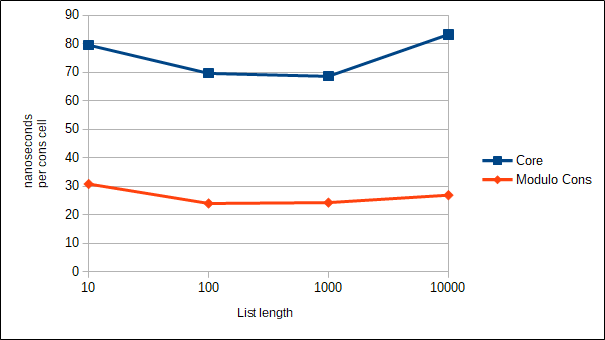
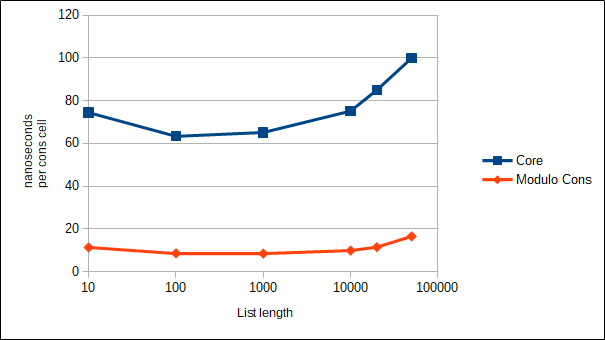
Redo benchmarks one at a time
Makes the large benchmarks more feasible to do!
Seems to make everything look faster. Less overhead?
Have to redo everything the same way.

diff --git a/dist/modified.html b/dist/modified.html
@@ -14813,6 +14813,7 @@ var $author$project$Main$coreMap = F2(
 var $author$project$Main$listOfSize = function (n) {
 	return A2($elm$core$List$range, 1, n);
 };
+// https://en.wikipedia.org/wiki/Tail_call#Tail_recursion_modulo_cons
 var $author$project$Main$moduloConsMap = F2(function(f, xs) {
   var tmp = _List_Cons(undefined, _List_Nil);
   var end = tmp;
@@ -14823,6 +14824,7 @@ var $author$project$Main$moduloConsMap = F2(function(f, xs) {
   }
   return tmp.b;
 });
+
 var $author$project$Main$compareBenchmark = function (n) {
 	var list = $author$project$Main$listOfSize(n);
 	return A5(
@@ -14843,15 +14845,14 @@ var $author$project$Main$compareBenchmark = function (n) {
 				list);
 		});
 };
-var $author$project$Main$compareScale = A2(
-	$elm$core$List$map,
-	$author$project$Main$compareBenchmark,
-	A2(
-		$elm$core$List$map,
-		$elm$core$Basics$pow(10),
-		A2($elm$core$List$range, 1, 4)));
 var $elm_explorations$benchmark$Benchmark$describe = $elm_explorations$benchmark$Benchmark$Benchmark$Group;
-var $author$project$Main$suite = A2($elm_explorations$benchmark$Benchmark$describe, 'map modulo-cons vs core', $author$project$Main$compareScale);
+var $author$project$Main$suite = A2(
+	$elm_explorations$benchmark$Benchmark$describe,
+	'map modulo-cons vs core',
+	_List_fromArray(
+		[
+			$author$project$Main$compareBenchmark(10)
+		]));
 var $author$project$Main$main = $elm_explorations$benchmark$Benchmark$Runner$program($author$project$Main$suite);
 _Platform_export({'Main':{'init':$author$project$Main$main(
 	$elm$json$Json$Decode$succeed(_Utils_Tuple0))(0)}});}(this));

diff --git a/dist/compiled.html b/dist/compiled.html
@@ -14837,15 +14837,14 @@ var $author$project$Main$compareBenchmark = function (n) {
 				list);
 		});
 };
-var $author$project$Main$compareScale = A2(
-	$elm$core$List$map,
-	$author$project$Main$compareBenchmark,
-	A2(
-		$elm$core$List$map,
-		$elm$core$Basics$pow(10),
-		A2($elm$core$List$range, 1, 4)));
 var $elm_explorations$benchmark$Benchmark$describe = $elm_explorations$benchmark$Benchmark$Benchmark$Group;
-var $author$project$Main$suite = A2($elm_explorations$benchmark$Benchmark$describe, 'map modulo-cons vs core', $author$project$Main$compareScale);
+var $author$project$Main$suite = A2(
+	$elm_explorations$benchmark$Benchmark$describe,
+	'map modulo-cons vs core',
+	_List_fromArray(
+		[
+			$author$project$Main$compareBenchmark(10000)
+		]));
 var $author$project$Main$main = $elm_explorations$benchmark$Benchmark$Runner$program($author$project$Main$suite);
 _Platform_export({'Main':{'init':$author$project$Main$main(
 	$elm$json$Json$Decode$succeed(_Utils_Tuple0))(0)}});}(this));

diff --git a/README.md b/README.md
@@ -8,10 +8,12 @@ Recently I was writing a function a bit like `List.map` as part of my project, r
 
 | length | Core ns/cell | Modulo Cons ns/cell |
 | ------ | ------------ | ------------------- |
-| 10     | 79.6         | 30.8                |
-| 100    | 69.6         | 23.9                |
-| 1000   | 68.6         | 24.2                |
-| 10000  | 83.3         | 26.8                |
+| 10     | 74.5         | 11.3                |
+| 100    | 63.3         | 8.5                 |
+| 1000   | 65.1         | 8.4                 |
+| 10000  | 75.2         | 9.8                 |
+| 20000  | 85.0         | 11.4                |
+| 50000  | 100.0        | 16.5                |
 
 ![Chart of benchmark results](./docs/chart.png)
 
